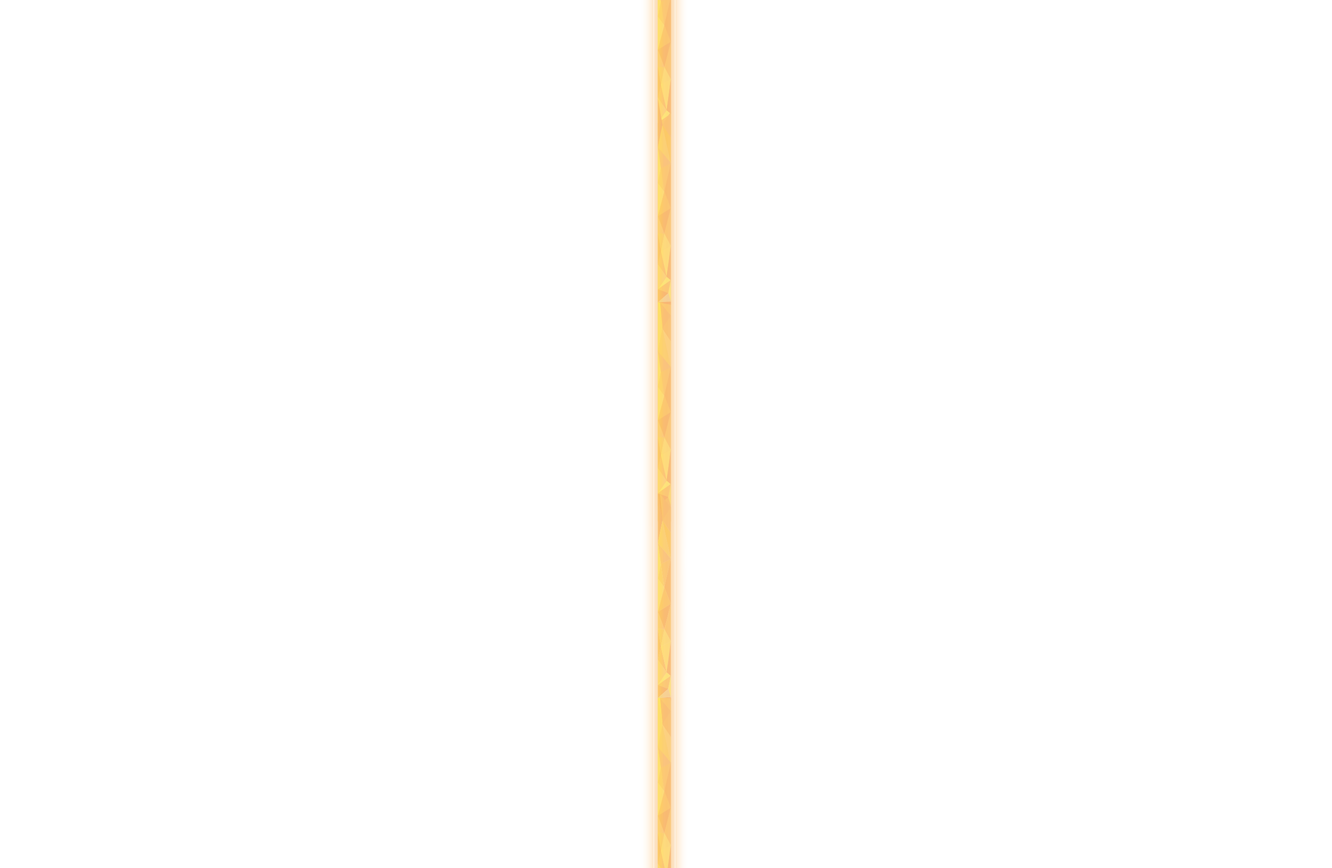
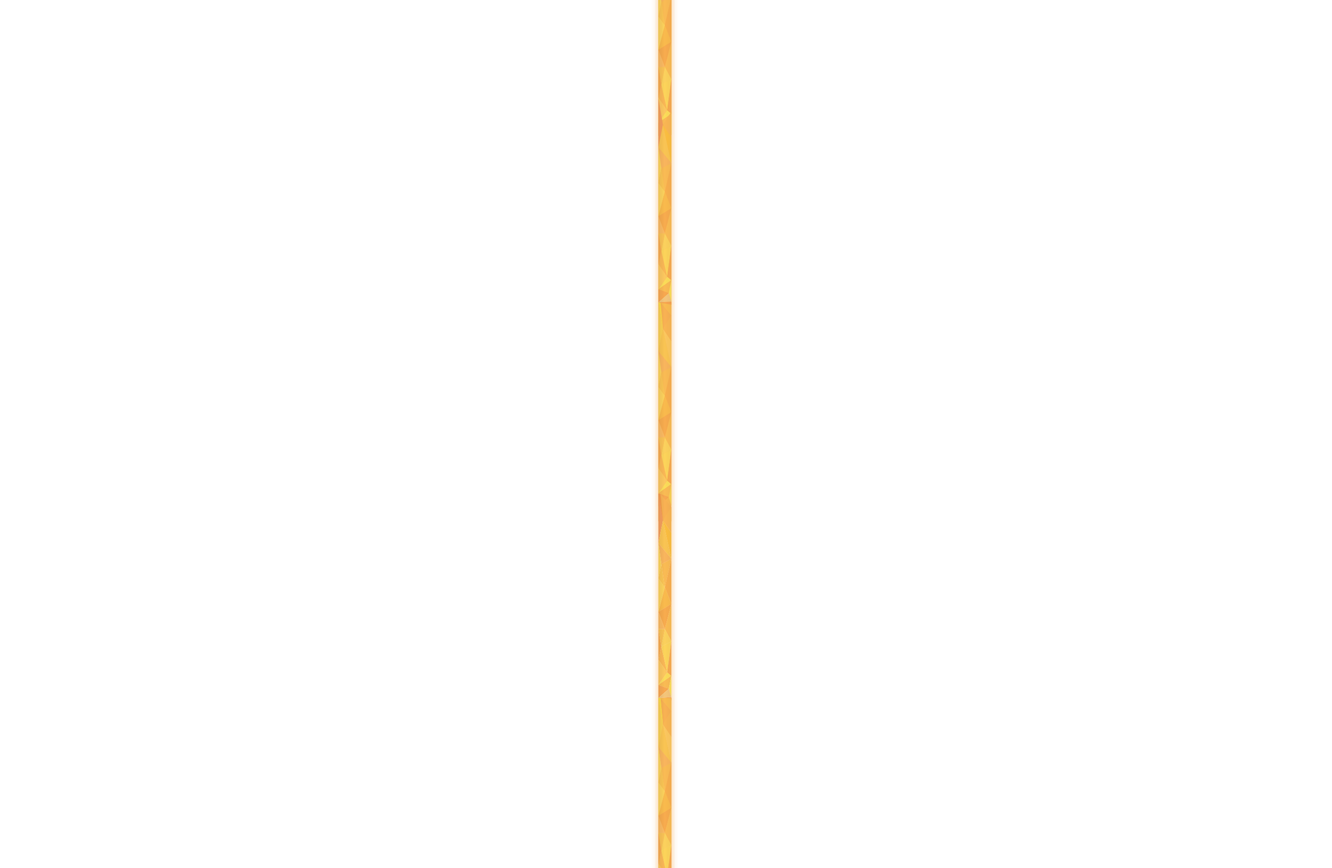
testing ie8

Changed region(s): [[0.4688, 0.0, 0.5312, 1.0]]

diff --git a/style/style.css b/style/style.css
@@ -1,1 +1,1 @@
-html,body,.container,.cbp-fbscroller,.cbp-fbscroller section{height:100%}body{background:#fff;font-family:Helvetica, Arial, sans-serif;margin:0 auto;width:997px}#cbp-fbscroller{position:relative}.cbp-fbscroller>nav{left:0;margin:0 auto;position:fixed;right:-900px;top:50%;width:0;z-index:100;-webkit-transform:translateY(-50%);-moz-transform:translateY(-50%);-ms-transform:translateY(-50%);transform:translateY(-50%)}.cbp-fbscroller>nav a{background:rgba(255,255,255,0.6);border-radius:50%;color:transparent;display:block;height:16px;margin:25px 0;outline:none;position:relative;width:16px;z-index:100;display:-webkit-box;display:-moz-box;display:-ms-flexbox;display:-webkit-flex;display:flex;-webkit-box-align:center;-moz-box-align:center;-ms-flex-align:center;-webkit-align-items:center;align-items:center}.cbp-fbscroller>nav a span{left:-100px}.cbp-fbscroller>nav a:hover{background:#fff;color:transparent}.cbp-fbscroller>nav a:hover span{color:#eee !important;padding-left:10px}.cbp-fbscroller>nav a:nth-child(1) span{margin-left:-115px}.cbp-fbscroller>nav a:nth-child(2) span{margin-left:-105px}.cbp-fbscroller>nav a:nth-child(3) span{margin-left:-125px}.cbp-fbscroller>nav a:nth-child(4) span{margin-left:-140px}.cbp-fbscroller>nav a:nth-child(5) span{margin-left:-93px}.cbp-fbscroller>nav a.cbp-fbcurrent{background:#fff}.cbp-fbscroller section{background-position:top center;background-repeat:no-repeat;background-size:cover;position:relative}.container{background-size:100% auto;background-repeat:repeat;height:100%;width:997px;margin:0 auto}.container section{background-color:#A2A6A9}#fbsection1{background-color:#A2A6A9;background-image:url(../images/phase1-12.png)}#fbsection2{background-color:#A2A6A9;background-image:url(../images/phase2-13.png)}#fbsection3{background-color:#A2A6A9;background-image:url(../images/phase3-12.png)}#fbsection4{background-color:#A2A6A9;background-image:url(../images/phase5-12.png)}#fbsection5{background-color:#A2A6A9;background-image:url(../images/phase6-13.png)}#fbsection6{background-color:#A2A6A9}#fbsection6.oneandten{background-image:url(../images/oneandten.png);height:10%}#fbsection6.oneandfour{background-image:url(../images/oneandfour.png);height:25%}#fbsection6.twoandfive{background-image:url(../images/twoandfive.png);height:40%}#fbsection6.half{background-image:url(../images/half.png);height:50%}#fbsection6.threeandfour{background-image:url(../images/threeandfour.png);height:75%}#fbsection6{background-image:url(../images/phase6-13.png);height:100%}.content-layer{color:#fff}.content-layer h1{font-size:6.2em;line-height:85%}.content-layer p{line-height:160%}#fbsection1 .content-layer{height:100%;left:0;margin:0 auto;position:absolute;right:0;text-align:center;top:0;width:80%}#fbsection1 .content-layer h1{position:absolute;top:5%}#fbsection1 .content-layer p{border-top:1px solid #fff;bottom:25%;left:0;margin:0 auto;padding-top:15px;position:absolute;right:0;text-align:left;width:88%}#fbsection2 .content-layer{height:100%;left:0;margin:0 auto;position:absolute;right:0;text-align:center;top:0;width:80%}#fbsection2 .content-layer h1{font-size:5.8em;position:absolute;top:15%}#fbsection2 .content-layer h1 span{display:block}#fbsection2 .content-layer p{border-top:1px solid #fff;bottom:20%;left:0;margin:0 auto;padding-top:15px;position:absolute;right:0;text-align:left;width:70%}#fbsection3 .content-layer{color:#fff;height:100%;left:50px;margin:0 auto;position:absolute;text-align:center;top:0;width:50%}#fbsection3 .content-layer h1{font-size:5.1em;height:207px;margin:75px 0 0;position:relative}#fbsection3 .content-layer h1 span.left{float:left;margin-right:30px}#fbsection3 .content-layer h1 span.middle{float:left;margin-left:80px}#fbsection3 .content-layer h1 span.right{float:left;margin-left:0px}#fbsection3 .content-layer p#parag1{border-top:1px solid #fff;left:0;margin-bottom:0;padding-top:15px;position:relative;text-align:left;width:80%}#fbsection3 .content-layer p#parag2{border-top:none;left:0;margin:0;padding-top:0;position:relative;text-align:left;width:70%}#fbsection4 .content-layer{height:100%;left:0;margin:0 auto;position:absolute;right:0;text-align:center;top:0;width:70%}#fbsection4 .content-layer h1{font-size:5.8em;height:110px;margin-top:100px;position:relative}#fbsection4 .content-layer p{border-top:1px solid #fff;left:0;margin-top:0;margin:0 auto;padding-top:15px;position:absolute;right:0;text-align:left;width:85%}#fbsection4 .content-layer h2{font-weight:500;left:0;margin:0 auto;position:absolute;right:0;top:400px;width:60%;-webkit-box-pack:center;-moz-box-pack:center;-ms-flex-pack:center;-webkit-justify-content:center;justify-content:center}#fbsection4 .content-layer h2 span.middle{font-size:0.8em;left:0;line-height:100%;margin:0 auto;padding-top:5px;position:absolute;right:0;width:60%;-webkit-box-pack:center;-moz-box-pack:center;-ms-flex-pack:center;-webkit-justify-content:center;justify-content:center}#fbsection4 .content-layer h2 span.left{float:left;left:90px;padding-left:10px;position:absolute}#fbsection4 .content-layer h2 span.right{float:right;margin-top:-10px;padding-left:30px;position:absolute;width:40%}#fbsection5 .content-layer{height:100%;left:0;margin:0 auto;position:absolute;right:0;text-align:center;top:0;width:100%}#fbsection5 .content-layer h1{font-size:4.2em;line-height:100%;margin-bottom:0;margin-top:100px;position:relative}#fbsection5 .content-layer p{border-top:1px solid #fff;left:0;margin:15px auto 0;padding-top:15px;position:relative;right:0;text-align:left;width:80%}#fbsection6 .content-layer{height:50%;left:0;margin:0 auto;position:absolute;right:0;text-align:center;top:0;width:100%}#fbsection6 .content-layer h1{font-size:5.6em;margin-bottom:0;position:relative}#fbsection6 .content-layer p{border-top:1px solid #fff;margin:20px auto 0;padding-top:15px;position:relative;text-align:left;width:80%;left:0;right:0}#fbsection5 ul{left:25px;list-style:none;position:absolute;right:0;top:425px;z-index:10000000}#fbsection5 ul a{border:1px solid yellow;border:2px solid #fff9;border-radius:150px;color:#fff;display:block;height:120px;position:absolute;text-decoration:none;width:120px}#fbsection5 ul a img.buttons{left:-20px;position:absolute;top:-20px;width:160px}#fbsection5 ul a img.tabs{width:450px;position:absolute}#fbsection5 ul a li{display:none}#fbsection5 ul a:hover img.buttons{width:190px;margin-left:-15px;margin-top:-15px;z-index:10001}#fbsection5 ul a:hover li{display:block}#fbsection5 ul a:nth-child(odd){top:0px}#fbsection5 ul a:nth-child(odd) li{position:absolute;z-index:10000;left:375px;right:0;top:230px}#fbsection5 ul a:nth-child(even){top:80px}#fbsection5 ul a:nth-child(even) li{left:0;margin-top:-80px;margin-left:-80px;position:absolute;right:0;z-index:10000;width:750px;float:right;top:230px}#fbsection5 ul a:nth-child(1){left:50px}#fbsection5 ul a:nth-child(1) li{display:block !important}#fbsection5 ul a:nth-child(2){left:130px}#fbsection5 ul a:nth-child(3){left:210px}#fbsection5 ul a:nth-child(3) li{margin-left:-160px}#fbsection5 ul a:nth-child(4){left:290px}#fbsection5 ul a:nth-child(4) li{margin-left:-240px}#fbsection5 ul a:nth-child(5){left:370px}#fbsection5 ul a:nth-child(5) li{margin-left:-385px}#fbsection5 ul a:nth-child(6){left:450px}#fbsection5 ul a:nth-child(6) li{margin-left:-400px}#fbsection5 ul a:nth-child(7){left:530px}#fbsection5 ul a:nth-child(7) li{margin-left:-706px}#fbsection5 ul a:nth-child(8){left:610px}#fbsection5 ul a:nth-child(8) li{margin-left:-560px}#fbsection5 ul a:nth-child(9){left:690px}#fbsection5 ul a:nth-child(9) li{margin-left:-1025px}#fbsection5 ul a:nth-child(10){left:770px}#fbsection5 ul a:nth-child(10) li{margin-left:-720px}#exception{height:420px;background-image:url(../images/phase6-13.png);background-position:top center;background-repeat:no-repeat;background-size:auto 100%}.oil{left:64px;position:absolute;top:720px;z-index:10000000;width:450px}#video-wrapper{display:-webkit-box;display:-moz-box;display:-ms-flexbox;display:-webkit-flex;display:flex;-webkit-box-align:center;-moz-box-align:center;-ms-flex-align:center;-webkit-align-items:center;align-items:center;-webkit-box-pack:center;-moz-box-pack:center;-ms-flex-pack:center;-webkit-justify-content:center;justify-content:center;position:absolute;left:0;right:0;z-index:9999999 !important}#video-wrapper video{margin:0 auto}header{height:133px;margin:0px auto;padding:0;width:997px}footer{bottom:0;height:100px;left:0;margin:0px auto;padding:0;position:relative;right:0;width:997px}a{color:#1185ff}a.zoomable{border:3px solid #fdd;border-radius:300px;display:block;height:300px;margin-top:350px;padding:80px;position:relative;width:300px}a.zoomable span.playbtn{background:url("../images/play_btn.png") no-repeat center center;display:block;height:100%;left:0;opacity:0.8;position:absolute;top:0;width:100%;-o-transition:opacity 0.25s;-moz-transition:opacity 0.25s;-webkit-transition:opacity 0.25s;transition:opacity 0.25s}a.zoomable:hover span.zoom_icon{opacity:1}.lt-ie8 body{background:#000}.lt-ie9 .container section{border:1px solid yellow}.lt-ie9 #fbsection1{background-color:#fdd;background-image:url(../images/phase1-1.png);background-size:997px 628px;margin:0 auto}
+html,body,.container,.cbp-fbscroller,.cbp-fbscroller section{height:100%}body{background:#fff;font-family:Helvetica, Arial, sans-serif;margin:0 auto;width:997px}#cbp-fbscroller{position:relative}.cbp-fbscroller>nav{left:0;margin:0 auto;position:fixed;right:-900px;top:50%;width:0;z-index:100;-webkit-transform:translateY(-50%);-moz-transform:translateY(-50%);-ms-transform:translateY(-50%);transform:translateY(-50%)}.cbp-fbscroller>nav a{background:rgba(255,255,255,0.6);border-radius:50%;color:transparent;display:block;height:16px;margin:25px 0;outline:none;position:relative;width:16px;z-index:100;display:-webkit-box;display:-moz-box;display:-ms-flexbox;display:-webkit-flex;display:flex;-webkit-box-align:center;-moz-box-align:center;-ms-flex-align:center;-webkit-align-items:center;align-items:center}.cbp-fbscroller>nav a span{left:-100px}.cbp-fbscroller>nav a:hover{background:#fff;color:transparent}.cbp-fbscroller>nav a:hover span{color:#eee !important;padding-left:10px}.cbp-fbscroller>nav a:nth-child(1) span{margin-left:-115px}.cbp-fbscroller>nav a:nth-child(2) span{margin-left:-105px}.cbp-fbscroller>nav a:nth-child(3) span{margin-left:-125px}.cbp-fbscroller>nav a:nth-child(4) span{margin-left:-140px}.cbp-fbscroller>nav a:nth-child(5) span{margin-left:-93px}.cbp-fbscroller>nav a.cbp-fbcurrent{background:#fff}.cbp-fbscroller section{background-position:top center;background-repeat:no-repeat;background-size:cover;position:relative}.container{background-size:100% auto;background-repeat:repeat;height:100%;width:997px;margin:0 auto}.container section{background-color:#A2A6A9}#fbsection1{background-color:#A2A6A9;background-image:url(../images/phase1-12.png)}#fbsection2{background-color:#A2A6A9;background-image:url(../images/phase2-13.png)}#fbsection3{background-color:#A2A6A9;background-image:url(../images/phase3-12.png)}#fbsection4{background-color:#A2A6A9;background-image:url(../images/phase5-12.png)}#fbsection5{background-color:#A2A6A9;background-image:url(../images/phase6-12.png)}#fbsection6{background-color:#A2A6A9}#fbsection6.oneandten{background-image:url(../images/oneandten.png);height:10%}#fbsection6.oneandfour{background-image:url(../images/oneandfour.png);height:25%}#fbsection6.twoandfive{background-image:url(../images/twoandfive.png);height:40%}#fbsection6.half{background-image:url(../images/half.png);height:50%}#fbsection6.threeandfour{background-image:url(../images/threeandfour.png);height:75%}#fbsection6{background-image:url(../images/phase6-12.png);height:100%}.content-layer{color:#fff}.content-layer h1{font-size:6.2em;line-height:85%}.content-layer p{line-height:160%}#fbsection1 .content-layer{height:100%;left:0;margin:0 auto;position:absolute;right:0;text-align:center;top:0;width:80%}#fbsection1 .content-layer h1{position:absolute;top:5%}#fbsection1 .content-layer p{border-top:1px solid #fff;bottom:25%;left:0;margin:0 auto;padding-top:15px;position:absolute;right:0;text-align:left;width:88%}#fbsection2 .content-layer{height:100%;left:0;margin:0 auto;position:absolute;right:0;text-align:center;top:0;width:80%}#fbsection2 .content-layer h1{font-size:5.8em;position:absolute;top:15%}#fbsection2 .content-layer h1 span{display:block}#fbsection2 .content-layer p{border-top:1px solid #fff;bottom:20%;left:0;margin:0 auto;padding-top:15px;position:absolute;right:0;text-align:left;width:70%}#fbsection3 .content-layer{color:#fff;height:100%;left:50px;margin:0 auto;position:absolute;text-align:center;top:0;width:50%}#fbsection3 .content-layer h1{font-size:5.1em;height:207px;margin:75px 0 0;position:relative}#fbsection3 .content-layer h1 span.left{float:left;margin-right:30px}#fbsection3 .content-layer h1 span.middle{float:left;margin-left:80px}#fbsection3 .content-layer h1 span.right{float:left;margin-left:0px}#fbsection3 .content-layer p#parag1{border-top:1px solid #fff;left:0;margin-bottom:0;padding-top:15px;position:relative;text-align:left;width:80%}#fbsection3 .content-layer p#parag2{border-top:none;left:0;margin:0;padding-top:0;position:relative;text-align:left;width:70%}#fbsection4 .content-layer{height:100%;left:0;margin:0 auto;position:absolute;right:0;text-align:center;top:0;width:70%}#fbsection4 .content-layer h1{font-size:5.8em;height:110px;margin-top:100px;position:relative}#fbsection4 .content-layer p{border-top:1px solid #fff;left:0;margin-top:0;margin:0 auto;padding-top:15px;position:absolute;right:0;text-align:left;width:85%}#fbsection4 .content-layer h2{font-weight:500;left:0;margin:0 auto;position:absolute;right:0;top:400px;width:60%;-webkit-box-pack:center;-moz-box-pack:center;-ms-flex-pack:center;-webkit-justify-content:center;justify-content:center}#fbsection4 .content-layer h2 span.middle{font-size:0.8em;left:0;line-height:100%;margin:0 auto;padding-top:5px;position:absolute;right:0;width:60%;-webkit-box-pack:center;-moz-box-pack:center;-ms-flex-pack:center;-webkit-justify-content:center;justify-content:center}#fbsection4 .content-layer h2 span.left{float:left;left:90px;padding-left:10px;position:absolute}#fbsection4 .content-layer h2 span.right{float:right;margin-top:-10px;padding-left:30px;position:absolute;width:40%}#fbsection5 .content-layer{height:100%;left:0;margin:0 auto;position:absolute;right:0;text-align:center;top:0;width:100%}#fbsection5 .content-layer h1{font-size:4.2em;line-height:100%;margin-bottom:0;margin-top:100px;position:relative}#fbsection5 .content-layer p{border-top:1px solid #fff;left:0;margin:15px auto 0;padding-top:15px;position:relative;right:0;text-align:left;width:80%}#fbsection6 .content-layer{height:50%;left:0;margin:0 auto;position:absolute;right:0;text-align:center;top:0;width:100%}#fbsection6 .content-layer h1{font-size:5.6em;margin-bottom:0;position:relative}#fbsection6 .content-layer p{border-top:1px solid #fff;margin:20px auto 0;padding-top:15px;position:relative;text-align:left;width:80%;left:0;right:0}#fbsection5 ul{left:25px;list-style:none;position:absolute;right:0;top:425px;z-index:10000000}#fbsection5 ul a{border:1px solid yellow;border:2px solid #fff9;border-radius:150px;color:#fff;display:block;height:120px;position:absolute;text-decoration:none;width:120px}#fbsection5 ul a img.buttons{left:-20px;position:absolute;top:-20px;width:160px}#fbsection5 ul a img.tabs{width:450px;position:absolute}#fbsection5 ul a li{display:none}#fbsection5 ul a:hover img.buttons{width:190px;margin-left:-15px;margin-top:-15px;z-index:10001}#fbsection5 ul a:hover li{display:block}#fbsection5 ul a:nth-child(odd){top:0px}#fbsection5 ul a:nth-child(odd) li{position:absolute;z-index:10000;left:375px;right:0;top:230px}#fbsection5 ul a:nth-child(even){top:80px}#fbsection5 ul a:nth-child(even) li{left:0;margin-top:-80px;margin-left:-80px;position:absolute;right:0;z-index:10000;width:750px;float:right;top:230px}#fbsection5 ul a:nth-child(1){left:50px}#fbsection5 ul a:nth-child(1) li{display:block !important}#fbsection5 ul a:nth-child(2){left:130px}#fbsection5 ul a:nth-child(3){left:210px}#fbsection5 ul a:nth-child(3) li{margin-left:-160px}#fbsection5 ul a:nth-child(4){left:290px}#fbsection5 ul a:nth-child(4) li{margin-left:-240px}#fbsection5 ul a:nth-child(5){left:370px}#fbsection5 ul a:nth-child(5) li{margin-left:-385px}#fbsection5 ul a:nth-child(6){left:450px}#fbsection5 ul a:nth-child(6) li{margin-left:-400px}#fbsection5 ul a:nth-child(7){left:530px}#fbsection5 ul a:nth-child(7) li{margin-left:-706px}#fbsection5 ul a:nth-child(8){left:610px}#fbsection5 ul a:nth-child(8) li{margin-left:-560px}#fbsection5 ul a:nth-child(9){left:690px}#fbsection5 ul a:nth-child(9) li{margin-left:-1025px}#fbsection5 ul a:nth-child(10){left:770px}#fbsection5 ul a:nth-child(10) li{margin-left:-720px}#exception{height:420px;background-image:url(../images/phase6-12.png);background-position:top center;background-repeat:no-repeat;background-size:auto 100%}.oil{left:64px;position:absolute;top:720px;z-index:10000000;width:450px}#video-wrapper{display:-webkit-box;display:-moz-box;display:-ms-flexbox;display:-webkit-flex;display:flex;-webkit-box-align:center;-moz-box-align:center;-ms-flex-align:center;-webkit-align-items:center;align-items:center;-webkit-box-pack:center;-moz-box-pack:center;-ms-flex-pack:center;-webkit-justify-content:center;justify-content:center;position:absolute;left:0;right:0;z-index:9999999 !important}#video-wrapper video{margin:0 auto}header{height:133px;margin:0px auto;padding:0;width:997px}footer{bottom:0;height:100px;left:0;margin:0px auto;padding:0;position:relative;right:0;width:997px}a{color:#1185ff}a.zoomable{border:3px solid #fdd;border-radius:300px;display:block;height:300px;margin-top:350px;padding:80px;position:relative;width:300px}a.zoomable span.playbtn{background:url("../images/play_btn.png") no-repeat center center;display:block;height:100%;left:0;opacity:0.8;position:absolute;top:0;width:100%;-o-transition:opacity 0.25s;-moz-transition:opacity 0.25s;-webkit-transition:opacity 0.25s;transition:opacity 0.25s}a.zoomable:hover span.zoom_icon{opacity:1}.lt-ie8 body{background:#000}.lt-ie9 .container section{border:1px solid yellow}.lt-ie9 #fbsection1{background-color:#fdd;background-image:url(../images/phase1-1.png);background-size:997px 628px;margin:0 auto}

diff --git a/style/style.min.css b/style/style.min.css
@@ -1,1 +1,1 @@
-.cbp-fbscroller,.cbp-fbscroller section,.container,body,html{height:100%}body{background:#fff;font-family:Helvetica,Arial,sans-serif;margin:0 auto;width:997px}#cbp-fbscroller{position:relative}.cbp-fbscroller>nav{left:0;margin:0 auto;position:fixed;right:-900px;top:50%;width:0;z-index:100;-webkit-transform:translateY(-50%);-moz-transform:translateY(-50%);-ms-transform:translateY(-50%);transform:translateY(-50%)}.cbp-fbscroller>nav a{background:rgba(255,255,255,.6);border-radius:50%;color:transparent;height:16px;margin:25px 0;outline:0;position:relative;width:16px;z-index:100;display:-webkit-box;display:-moz-box;display:-ms-flexbox;display:-webkit-flex;display:flex;-webkit-box-align:center;-moz-box-align:center;-ms-flex-align:center;-webkit-align-items:center;align-items:center}.cbp-fbscroller>nav a span{left:-100px}.cbp-fbscroller>nav a:hover{background:#fff;color:transparent}.cbp-fbscroller>nav a:hover span{color:#eee!important;padding-left:10px}.cbp-fbscroller>nav a:nth-child(1) span{margin-left:-115px}.cbp-fbscroller>nav a:nth-child(2) span{margin-left:-105px}.cbp-fbscroller>nav a:nth-child(3) span{margin-left:-125px}.cbp-fbscroller>nav a:nth-child(4) span{margin-left:-140px}.cbp-fbscroller>nav a:nth-child(5) span{margin-left:-93px}.cbp-fbscroller>nav a.cbp-fbcurrent{background:#fff}.cbp-fbscroller section{background-position:top center;background-repeat:no-repeat;background-size:cover;position:relative}.container{background-size:100% auto;background-repeat:repeat;height:100%;width:997px;margin:0 auto}.container section{background-color:#A2A6A9}#fbsection1{background-color:#A2A6A9;background-image:url(../images/phase1-12.png)}#fbsection2{background-color:#A2A6A9;background-image:url(../images/phase2-13.png)}#fbsection3{background-color:#A2A6A9;background-image:url(../images/phase3-12.png)}#fbsection4{background-color:#A2A6A9;background-image:url(../images/phase5-12.png)}#fbsection5{background-color:#A2A6A9;background-image:url(../images/phase6-13.png)}#fbsection6{background-color:#A2A6A9}#fbsection6.oneandten{background-image:url(../images/oneandten.png);height:10%}#fbsection6.oneandfour{background-image:url(../images/oneandfour.png);height:25%}#fbsection6.twoandfive{background-image:url(../images/twoandfive.png);height:40%}#fbsection6.half{background-image:url(../images/half.png);height:50%}#fbsection6.threeandfour{background-image:url(../images/threeandfour.png);height:75%}#fbsection6{background-image:url(../images/phase6-13.png);height:100%}.content-layer{color:#fff}.content-layer h1{font-size:6.2em;line-height:85%}.content-layer p{line-height:160%}#fbsection1 .content-layer{height:100%;left:0;margin:0 auto;position:absolute;right:0;text-align:center;top:0;width:80%}#fbsection1 .content-layer h1{position:absolute;top:5%}#fbsection1 .content-layer p{border-top:1px solid #fff;bottom:25%;left:0;margin:0 auto;padding-top:15px;position:absolute;right:0;text-align:left;width:88%}#fbsection2 .content-layer{height:100%;left:0;margin:0 auto;position:absolute;right:0;text-align:center;top:0;width:80%}#fbsection2 .content-layer h1{font-size:5.8em;position:absolute;top:15%}#fbsection2 .content-layer h1 span{display:block}#fbsection2 .content-layer p{border-top:1px solid #fff;bottom:20%;left:0;margin:0 auto;padding-top:15px;position:absolute;right:0;text-align:left;width:70%}#fbsection3 .content-layer{color:#fff;height:100%;left:50px;margin:0 auto;position:absolute;text-align:center;top:0;width:50%}#fbsection3 .content-layer h1{font-size:5.1em;height:207px;margin:75px 0 0;position:relative}#fbsection3 .content-layer h1 span.left{float:left;margin-right:30px}#fbsection3 .content-layer h1 span.middle{float:left;margin-left:80px}#fbsection3 .content-layer h1 span.right{float:left;margin-left:0}#fbsection3 .content-layer p#parag1{border-top:1px solid #fff;left:0;margin-bottom:0;padding-top:15px;position:relative;text-align:left;width:80%}#fbsection3 .content-layer p#parag2{border-top:none;left:0;margin:0;padding-top:0;position:relative;text-align:left;width:70%}#fbsection4 .content-layer{height:100%;left:0;margin:0 auto;position:absolute;right:0;text-align:center;top:0;width:70%}#fbsection4 .content-layer h1{font-size:5.8em;height:110px;margin-top:100px;position:relative}#fbsection4 .content-layer p{border-top:1px solid #fff;left:0;margin:0 auto;padding-top:15px;position:absolute;right:0;text-align:left;width:85%}#fbsection4 .content-layer h2{font-weight:500;left:0;margin:0 auto;position:absolute;right:0;top:400px;width:60%;-webkit-box-pack:center;-moz-box-pack:center;-ms-flex-pack:center;-webkit-justify-content:center;justify-content:center}#fbsection4 .content-layer h2 span.middle{font-size:.8em;left:0;line-height:100%;margin:0 auto;padding-top:5px;position:absolute;right:0;width:60%;-webkit-box-pack:center;-moz-box-pack:center;-ms-flex-pack:center;-webkit-justify-content:center;justify-content:center}#fbsection4 .content-layer h2 span.left{float:left;left:90px;padding-left:10px;position:absolute}#fbsection4 .content-layer h2 span.right{float:right;margin-top:-10px;padding-left:30px;position:absolute;width:40%}#fbsection5 .content-layer{height:100%;left:0;margin:0 auto;position:absolute;right:0;text-align:center;top:0;width:100%}#fbsection5 .content-layer h1{font-size:4.2em;line-height:100%;margin-bottom:0;margin-top:100px;position:relative}#fbsection5 .content-layer p{border-top:1px solid #fff;left:0;margin:15px auto 0;padding-top:15px;position:relative;right:0;text-align:left;width:80%}#fbsection6 .content-layer{height:50%;left:0;margin:0 auto;position:absolute;right:0;text-align:center;top:0;width:100%}#fbsection6 .content-layer h1{font-size:5.6em;margin-bottom:0;position:relative}#fbsection6 .content-layer p{border-top:1px solid #fff;margin:20px auto 0;padding-top:15px;position:relative;text-align:left;width:80%;left:0;right:0}#fbsection5 ul{left:25px;list-style:none;position:absolute;right:0;top:425px;z-index:10000000}#fbsection5 ul a{border:1px solid #ff0;border:2px solid #fff9;border-radius:150px;color:#fff;display:block;height:120px;position:absolute;text-decoration:none;width:120px}#fbsection5 ul a img.buttons{left:-20px;position:absolute;top:-20px;width:160px}#fbsection5 ul a img.tabs{width:450px;position:absolute}#fbsection5 ul a li{display:none}#fbsection5 ul a:hover img.buttons{width:190px;margin-left:-15px;margin-top:-15px;z-index:10001}#fbsection5 ul a:hover li{display:block}#fbsection5 ul a:nth-child(odd){top:0}#fbsection5 ul a:nth-child(odd) li{position:absolute;z-index:10000;left:375px;right:0;top:230px}#fbsection5 ul a:nth-child(even){top:80px}#fbsection5 ul a:nth-child(even) li{left:0;margin-top:-80px;margin-left:-80px;position:absolute;right:0;z-index:10000;width:750px;float:right;top:230px}#fbsection5 ul a:nth-child(1){left:50px}#fbsection5 ul a:nth-child(1) li{display:block!important}#fbsection5 ul a:nth-child(2){left:130px}#fbsection5 ul a:nth-child(3){left:210px}#fbsection5 ul a:nth-child(3) li{margin-left:-160px}#fbsection5 ul a:nth-child(4){left:290px}#fbsection5 ul a:nth-child(4) li{margin-left:-240px}#fbsection5 ul a:nth-child(5){left:370px}#fbsection5 ul a:nth-child(5) li{margin-left:-385px}#fbsection5 ul a:nth-child(6){left:450px}#fbsection5 ul a:nth-child(6) li{margin-left:-400px}#fbsection5 ul a:nth-child(7){left:530px}#fbsection5 ul a:nth-child(7) li{margin-left:-706px}#fbsection5 ul a:nth-child(8){left:610px}#fbsection5 ul a:nth-child(8) li{margin-left:-560px}#fbsection5 ul a:nth-child(9){left:690px}#fbsection5 ul a:nth-child(9) li{margin-left:-1025px}#fbsection5 ul a:nth-child(10){left:770px}#fbsection5 ul a:nth-child(10) li{margin-left:-720px}#exception{height:420px;background-image:url(../images/phase6-13.png);background-position:top center;background-repeat:no-repeat;background-size:auto 100%}.oil{left:64px;position:absolute;top:720px;z-index:10000000;width:450px}#video-wrapper{display:-webkit-box;display:-moz-box;display:-ms-flexbox;display:-webkit-flex;display:flex;-webkit-box-align:center;-moz-box-align:center;-ms-flex-align:center;-webkit-align-items:center;align-items:center;-webkit-box-pack:center;-moz-box-pack:center;-ms-flex-pack:center;-webkit-justify-content:center;justify-content:center;position:absolute;left:0;right:0;z-index:9999999!important}#video-wrapper video{margin:0 auto}header{height:133px;margin:0 auto;padding:0;width:997px}footer{bottom:0;height:100px;left:0;margin:0 auto;padding:0;position:relative;right:0;width:997px}a{color:#1185ff}a.zoomable{border:3px solid #fdd;border-radius:300px;display:block;height:300px;margin-top:350px;padding:80px;position:relative;width:300px}a.zoomable span.playbtn{background:url(../images/play_btn.png) no-repeat center center;display:block;height:100%;left:0;opacity:.8;position:absolute;top:0;width:100%;-o-transition:opacity .25s;-moz-transition:opacity .25s;-webkit-transition:opacity .25s;transition:opacity .25s}a.zoomable:hover span.zoom_icon{opacity:1}.lt-ie8 body{background:#000}.lt-ie9 .container section{border:1px solid #ff0}.lt-ie9 #fbsection1{background-color:#fdd;background-image:url(../images/phase1-1.png);background-size:997px 628px;margin:0 auto}
+.cbp-fbscroller,.cbp-fbscroller section,.container,body,html{height:100%}body{background:#fff;font-family:Helvetica,Arial,sans-serif;margin:0 auto;width:997px}#cbp-fbscroller{position:relative}.cbp-fbscroller>nav{left:0;margin:0 auto;position:fixed;right:-900px;top:50%;width:0;z-index:100;-webkit-transform:translateY(-50%);-moz-transform:translateY(-50%);-ms-transform:translateY(-50%);transform:translateY(-50%)}.cbp-fbscroller>nav a{background:rgba(255,255,255,.6);border-radius:50%;color:transparent;height:16px;margin:25px 0;outline:0;position:relative;width:16px;z-index:100;display:-webkit-box;display:-moz-box;display:-ms-flexbox;display:-webkit-flex;display:flex;-webkit-box-align:center;-moz-box-align:center;-ms-flex-align:center;-webkit-align-items:center;align-items:center}.cbp-fbscroller>nav a span{left:-100px}.cbp-fbscroller>nav a:hover{background:#fff;color:transparent}.cbp-fbscroller>nav a:hover span{color:#eee!important;padding-left:10px}.cbp-fbscroller>nav a:nth-child(1) span{margin-left:-115px}.cbp-fbscroller>nav a:nth-child(2) span{margin-left:-105px}.cbp-fbscroller>nav a:nth-child(3) span{margin-left:-125px}.cbp-fbscroller>nav a:nth-child(4) span{margin-left:-140px}.cbp-fbscroller>nav a:nth-child(5) span{margin-left:-93px}.cbp-fbscroller>nav a.cbp-fbcurrent{background:#fff}.cbp-fbscroller section{background-position:top center;background-repeat:no-repeat;background-size:cover;position:relative}.container{background-size:100% auto;background-repeat:repeat;height:100%;width:997px;margin:0 auto}.container section{background-color:#A2A6A9}#fbsection1{background-color:#A2A6A9;background-image:url(../images/phase1-12.png)}#fbsection2{background-color:#A2A6A9;background-image:url(../images/phase2-13.png)}#fbsection3{background-color:#A2A6A9;background-image:url(../images/phase3-12.png)}#fbsection4{background-color:#A2A6A9;background-image:url(../images/phase5-12.png)}#fbsection5{background-color:#A2A6A9;background-image:url(../images/phase6-12.png)}#fbsection6{background-color:#A2A6A9}#fbsection6.oneandten{background-image:url(../images/oneandten.png);height:10%}#fbsection6.oneandfour{background-image:url(../images/oneandfour.png);height:25%}#fbsection6.twoandfive{background-image:url(../images/twoandfive.png);height:40%}#fbsection6.half{background-image:url(../images/half.png);height:50%}#fbsection6.threeandfour{background-image:url(../images/threeandfour.png);height:75%}#fbsection6{background-image:url(../images/phase6-12.png);height:100%}.content-layer{color:#fff}.content-layer h1{font-size:6.2em;line-height:85%}.content-layer p{line-height:160%}#fbsection1 .content-layer{height:100%;left:0;margin:0 auto;position:absolute;right:0;text-align:center;top:0;width:80%}#fbsection1 .content-layer h1{position:absolute;top:5%}#fbsection1 .content-layer p{border-top:1px solid #fff;bottom:25%;left:0;margin:0 auto;padding-top:15px;position:absolute;right:0;text-align:left;width:88%}#fbsection2 .content-layer{height:100%;left:0;margin:0 auto;position:absolute;right:0;text-align:center;top:0;width:80%}#fbsection2 .content-layer h1{font-size:5.8em;position:absolute;top:15%}#fbsection2 .content-layer h1 span{display:block}#fbsection2 .content-layer p{border-top:1px solid #fff;bottom:20%;left:0;margin:0 auto;padding-top:15px;position:absolute;right:0;text-align:left;width:70%}#fbsection3 .content-layer{color:#fff;height:100%;left:50px;margin:0 auto;position:absolute;text-align:center;top:0;width:50%}#fbsection3 .content-layer h1{font-size:5.1em;height:207px;margin:75px 0 0;position:relative}#fbsection3 .content-layer h1 span.left{float:left;margin-right:30px}#fbsection3 .content-layer h1 span.middle{float:left;margin-left:80px}#fbsection3 .content-layer h1 span.right{float:left;margin-left:0}#fbsection3 .content-layer p#parag1{border-top:1px solid #fff;left:0;margin-bottom:0;padding-top:15px;position:relative;text-align:left;width:80%}#fbsection3 .content-layer p#parag2{border-top:none;left:0;margin:0;padding-top:0;position:relative;text-align:left;width:70%}#fbsection4 .content-layer{height:100%;left:0;margin:0 auto;position:absolute;right:0;text-align:center;top:0;width:70%}#fbsection4 .content-layer h1{font-size:5.8em;height:110px;margin-top:100px;position:relative}#fbsection4 .content-layer p{border-top:1px solid #fff;left:0;margin:0 auto;padding-top:15px;position:absolute;right:0;text-align:left;width:85%}#fbsection4 .content-layer h2{font-weight:500;left:0;margin:0 auto;position:absolute;right:0;top:400px;width:60%;-webkit-box-pack:center;-moz-box-pack:center;-ms-flex-pack:center;-webkit-justify-content:center;justify-content:center}#fbsection4 .content-layer h2 span.middle{font-size:.8em;left:0;line-height:100%;margin:0 auto;padding-top:5px;position:absolute;right:0;width:60%;-webkit-box-pack:center;-moz-box-pack:center;-ms-flex-pack:center;-webkit-justify-content:center;justify-content:center}#fbsection4 .content-layer h2 span.left{float:left;left:90px;padding-left:10px;position:absolute}#fbsection4 .content-layer h2 span.right{float:right;margin-top:-10px;padding-left:30px;position:absolute;width:40%}#fbsection5 .content-layer{height:100%;left:0;margin:0 auto;position:absolute;right:0;text-align:center;top:0;width:100%}#fbsection5 .content-layer h1{font-size:4.2em;line-height:100%;margin-bottom:0;margin-top:100px;position:relative}#fbsection5 .content-layer p{border-top:1px solid #fff;left:0;margin:15px auto 0;padding-top:15px;position:relative;right:0;text-align:left;width:80%}#fbsection6 .content-layer{height:50%;left:0;margin:0 auto;position:absolute;right:0;text-align:center;top:0;width:100%}#fbsection6 .content-layer h1{font-size:5.6em;margin-bottom:0;position:relative}#fbsection6 .content-layer p{border-top:1px solid #fff;margin:20px auto 0;padding-top:15px;position:relative;text-align:left;width:80%;left:0;right:0}#fbsection5 ul{left:25px;list-style:none;position:absolute;right:0;top:425px;z-index:10000000}#fbsection5 ul a{border:1px solid #ff0;border:2px solid #fff9;border-radius:150px;color:#fff;display:block;height:120px;position:absolute;text-decoration:none;width:120px}#fbsection5 ul a img.buttons{left:-20px;position:absolute;top:-20px;width:160px}#fbsection5 ul a img.tabs{width:450px;position:absolute}#fbsection5 ul a li{display:none}#fbsection5 ul a:hover img.buttons{width:190px;margin-left:-15px;margin-top:-15px;z-index:10001}#fbsection5 ul a:hover li{display:block}#fbsection5 ul a:nth-child(odd){top:0}#fbsection5 ul a:nth-child(odd) li{position:absolute;z-index:10000;left:375px;right:0;top:230px}#fbsection5 ul a:nth-child(even){top:80px}#fbsection5 ul a:nth-child(even) li{left:0;margin-top:-80px;margin-left:-80px;position:absolute;right:0;z-index:10000;width:750px;float:right;top:230px}#fbsection5 ul a:nth-child(1){left:50px}#fbsection5 ul a:nth-child(1) li{display:block!important}#fbsection5 ul a:nth-child(2){left:130px}#fbsection5 ul a:nth-child(3){left:210px}#fbsection5 ul a:nth-child(3) li{margin-left:-160px}#fbsection5 ul a:nth-child(4){left:290px}#fbsection5 ul a:nth-child(4) li{margin-left:-240px}#fbsection5 ul a:nth-child(5){left:370px}#fbsection5 ul a:nth-child(5) li{margin-left:-385px}#fbsection5 ul a:nth-child(6){left:450px}#fbsection5 ul a:nth-child(6) li{margin-left:-400px}#fbsection5 ul a:nth-child(7){left:530px}#fbsection5 ul a:nth-child(7) li{margin-left:-706px}#fbsection5 ul a:nth-child(8){left:610px}#fbsection5 ul a:nth-child(8) li{margin-left:-560px}#fbsection5 ul a:nth-child(9){left:690px}#fbsection5 ul a:nth-child(9) li{margin-left:-1025px}#fbsection5 ul a:nth-child(10){left:770px}#fbsection5 ul a:nth-child(10) li{margin-left:-720px}#exception{height:420px;background-image:url(../images/phase6-13.png);background-position:top center;background-repeat:no-repeat;background-size:auto 100%}.oil{left:64px;position:absolute;top:720px;z-index:10000000;width:450px}#video-wrapper{display:-webkit-box;display:-moz-box;display:-ms-flexbox;display:-webkit-flex;display:flex;-webkit-box-align:center;-moz-box-align:center;-ms-flex-align:center;-webkit-align-items:center;align-items:center;-webkit-box-pack:center;-moz-box-pack:center;-ms-flex-pack:center;-webkit-justify-content:center;justify-content:center;position:absolute;left:0;right:0;z-index:9999999!important}#video-wrapper video{margin:0 auto}header{height:133px;margin:0 auto;padding:0;width:997px}footer{bottom:0;height:100px;left:0;margin:0 auto;padding:0;position:relative;right:0;width:997px}a{color:#1185ff}a.zoomable{border:3px solid #fdd;border-radius:300px;display:block;height:300px;margin-top:350px;padding:80px;position:relative;width:300px}a.zoomable span.playbtn{background:url(../images/play_btn.png) no-repeat center center;display:block;height:100%;left:0;opacity:.8;position:absolute;top:0;width:100%;-o-transition:opacity .25s;-moz-transition:opacity .25s;-webkit-transition:opacity .25s;transition:opacity .25s}a.zoomable:hover span.zoom_icon{opacity:1}.lt-ie8 body{background:#000}.lt-ie9 .container section{border:1px solid #ff0}.lt-ie9 #fbsection1{background-color:#fdd;background-image:url(../images/phase1-1.png);background-size:997px 628px;margin:0 auto}

diff --git a/sass/style.scss b/sass/style.scss
@@ -167,7 +167,7 @@ body {
 
 #fbsection5 {
 	background-color: #A2A6A9;
-	background-image: url(../images/phase6-13.png);
+	background-image: url(../images/phase6-12.png);
 }
 
 #fbsection6 {
@@ -206,7 +206,7 @@ body {
 
 /* 1 */
 #fbsection6 {
-	background-image: url(../images/phase6-13.png);
+	background-image: url(../images/phase6-12.png);
 	height: 100%;
 }
 
@@ -570,7 +570,7 @@ body {
 
 #exception {
 	height: 420px;
-	background-image: url(../images/phase6-13.png);
+	background-image: url(../images/phase6-12.png);
 	background-position: top center;
 	background-repeat: no-repeat;
 	background-size: auto 100%;
